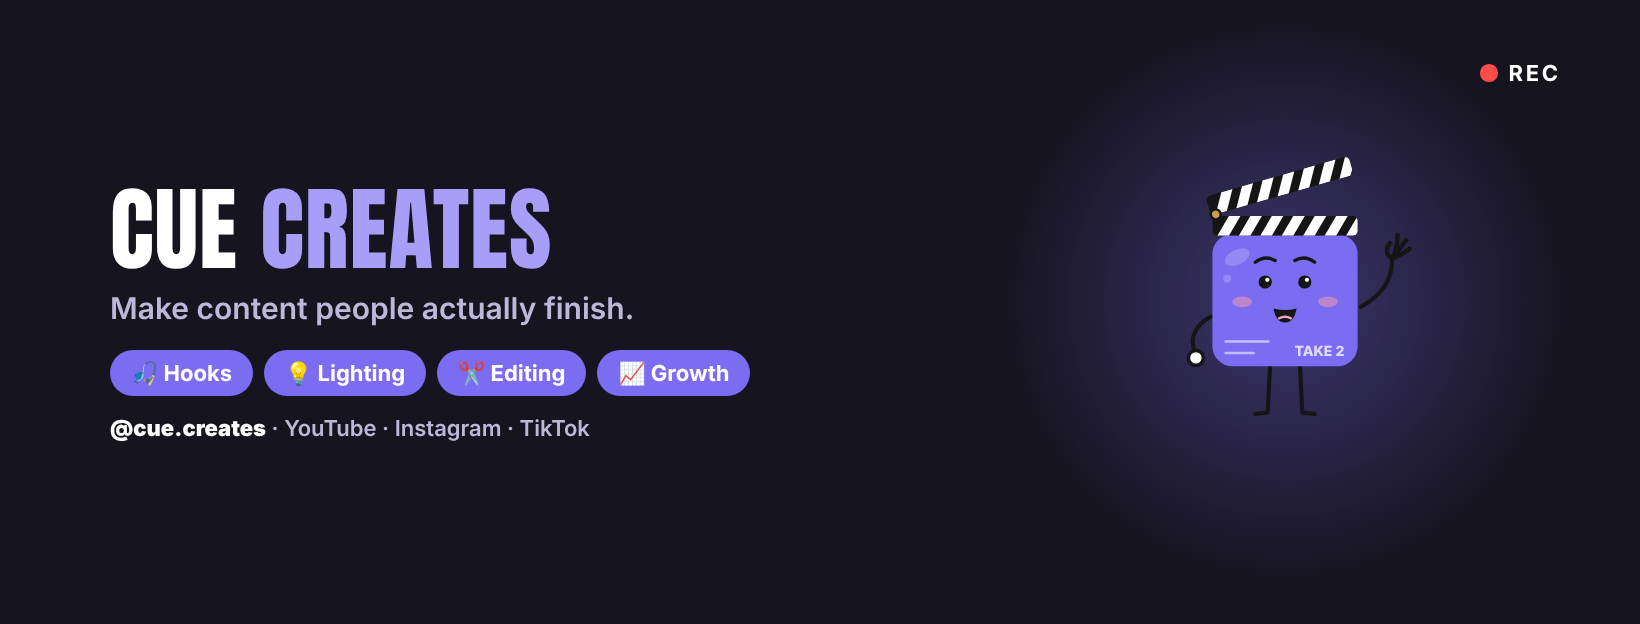
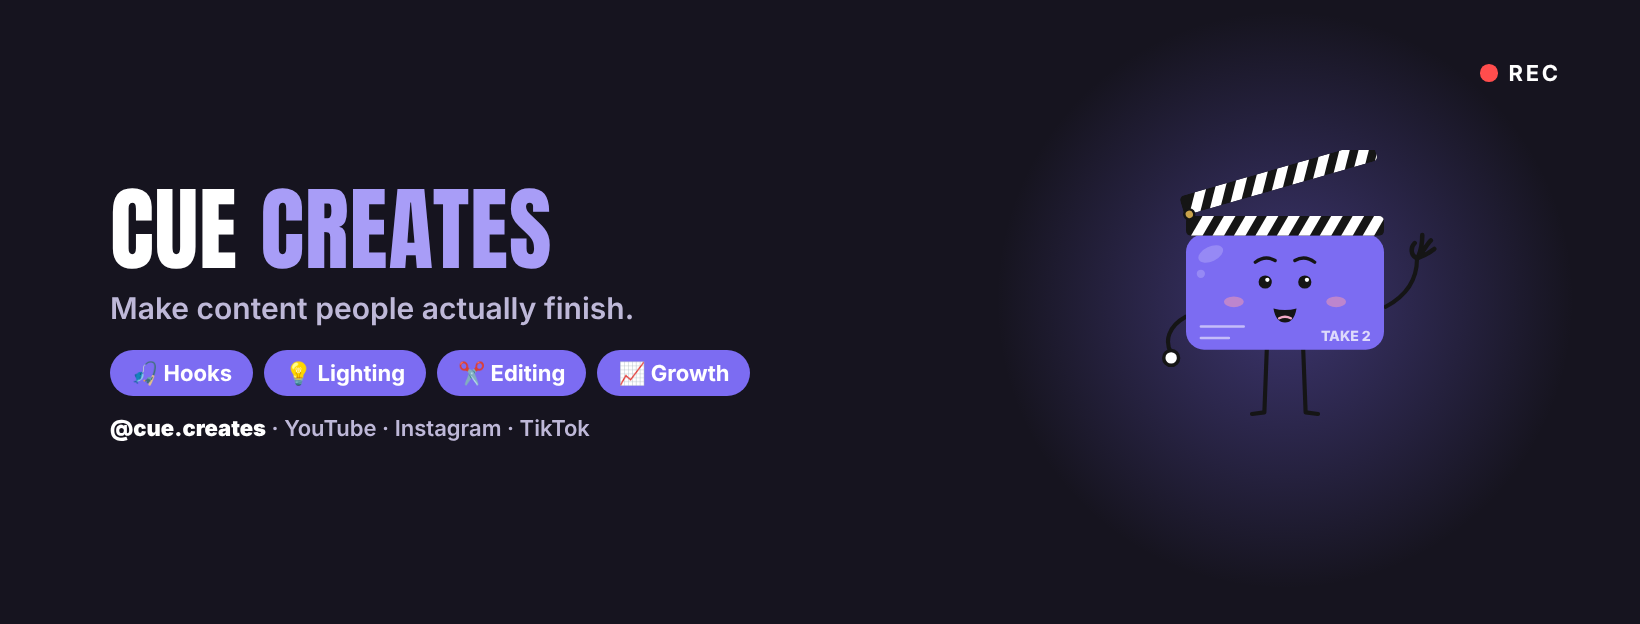
Cue: wide rectangle clapperboard body
Claude-Session: https://claude.ai/code/session_01S7xrfgRerDudK1H6Nqnn2f

Changed region(s): [[0.6841, 0.2436, 0.8707, 0.6699]]

diff --git a/characters/cue/cue.js b/characters/cue/cue.js
@@ -25,21 +25,21 @@ const ARMS = {
 
 const V = '#7C6CF2', VHI = '#A89DF7', VDK = '#5A4BD1';
 // slate body (the board)
-const body = `<rect x="112" y="132" width="176" height="160" rx="24" fill="${V}"/>
- <g fill="${VHI}" opacity=".6"><ellipse cx="142" cy="160" rx="16" ry="9" transform="rotate(-25 142 160)"/><circle cx="130" cy="186" r="5"/></g>
- <g stroke="#fff" stroke-width="3" stroke-linecap="round" opacity=".55"><path d="M128 262 h52 M128 276 h34"/></g>
- <text x="272" y="280" text-anchor="end" font-family="Inter, sans-serif" font-weight="800" font-size="17" fill="#fff" opacity=".75">TAKE 2</text>`;
+const body = `<rect x="80" y="132" width="240" height="140" rx="22" fill="${V}"/>
+ <g fill="${VHI}" opacity=".6"><ellipse cx="110" cy="156" rx="16" ry="9" transform="rotate(-25 110 156)"/><circle cx="98" cy="180" r="5"/></g>
+ <g stroke="#fff" stroke-width="3" stroke-linecap="round" opacity=".55"><path d="M98 244 h52 M98 258 h34"/></g>
+ <text x="304" y="262" text-anchor="end" font-family="Inter, sans-serif" font-weight="800" font-size="17" fill="#fff" opacity=".75">TAKE 2</text>`;
 // striped bar: base (fixed) + clapper arm (hinged at left, opens upward)
 const stripes = (x, y, w, h, id) => `<clipPath id="${id}"><rect x="${x}" y="${y}" width="${w}" height="${h}" rx="6"/></clipPath>
- <g clip-path="url(#${id})"><rect x="${x}" y="${y}" width="${w}" height="${h}" fill="${INK}"/>${Array.from({length: 8}, (_, i) => `<path d="M${x + 6 + i * 26} ${y + h} l14 0 l14 -${h} l-14 0 Z" fill="#fff"/>`).join('')}</g>`;
-const base = stripes(112, 110, 176, 24, 'cb');
-const arm = a => `<g transform="rotate(${-a} 116 108)">${stripes(110, 84, 180, 24, 'ca')}<circle cx="116" cy="108" r="6" fill="${GOLD}" stroke="${INK}" stroke-width="3"/></g>`;
-const legs = `<path d="M182 290 L179 348 L164 350 M218 290 L221 348 L236 350" ${L(5)}/>`;
+ <g clip-path="url(#${id})"><rect x="${x}" y="${y}" width="${w}" height="${h}" fill="${INK}"/>${Array.from({length: 10}, (_, i) => `<path d="M${x + 6 + i * 26} ${y + h} l14 0 l14 -${h} l-14 0 Z" fill="#fff"/>`).join('')}</g>`;
+const base = stripes(80, 110, 240, 24, 'cb');
+const arm = a => `<g transform="rotate(${-a} 84 108)">${stripes(78, 84, 244, 24, 'ca')}<circle cx="84" cy="108" r="6" fill="${GOLD}" stroke="${INK}" stroke-width="3"/></g>`;
+const legs = `<path d="M178 270 L175 348 L160 350 M222 270 L225 348 L240 350" ${L(5)}/>`;
 const m = mouth('#F3A9C6');
-const blush = `<ellipse cx="148" cy="214" rx="12" ry="6.5" fill="#F29BB0" opacity=".55"/><ellipse cx="252" cy="214" rx="12" ry="6.5" fill="#F29BB0" opacity=".55"/>`;
+const blush = `<ellipse cx="138" cy="214" rx="12" ry="6.5" fill="#F29BB0" opacity=".55"/><ellipse cx="262" cy="214" rx="12" ry="6.5" fill="#F29BB0" opacity=".55"/>`;
 const face = { explain: eyes + brows.up + m.talk, idea: eyes + brows.up + m.grin, shock: eyesShock + brows.shock + m.oh, approve: wink + brows.up + m.big, calm: eyesHappy + brows.up + m.smile };
 const open = { explain: 16, idea: 24, shock: 34, approve: 10, calm: 0 };
-const CUE = n => `<svg xmlns="http://www.w3.org/2000/svg" viewBox="0 30 400 340">${legs}${ARMS[n]}${body}${blush}<g transform="translate(0 4)">${face[n]}</g>${base}${arm(open[n])}${n === 'idea' ? spark(340, 70, 1) : ''}${n === 'shock' ? `<g ${L(4.5, GOLD)}><path d="M300 70 l12 -12 M312 92 l18 -4 M84 80 l-12 -10"/></g>` : ''}</svg>`;
+const CUE = n => `<svg xmlns="http://www.w3.org/2000/svg" viewBox="0 30 400 340">${legs}<clipPath id="lh"><rect x="-100" y="0" width="300" height="400"/></clipPath><clipPath id="rh"><rect x="200" y="0" width="300" height="400"/></clipPath><g clip-path="url(#lh)"><g transform="translate(-30 0)">${ARMS[n]}</g></g><g clip-path="url(#rh)"><g transform="translate(30 0)">${ARMS[n]}</g></g>${body}${blush}<g transform="translate(0 4)">${face[n]}</g>${base}${arm(open[n])}${n === 'idea' ? spark(340, 70, 1) : ''}${n === 'shock' ? `<g ${L(4.5, GOLD)}><path d="M300 70 l12 -12 M312 92 l18 -4 M84 80 l-12 -10"/></g>` : ''}</svg>`;
 const d = path.join(__dirname, 'svg');
 for (const p of Object.keys(ARMS)) fs.writeFileSync(path.join(d, `cue_${p}.svg`), CUE(p));
 console.log('ok');
